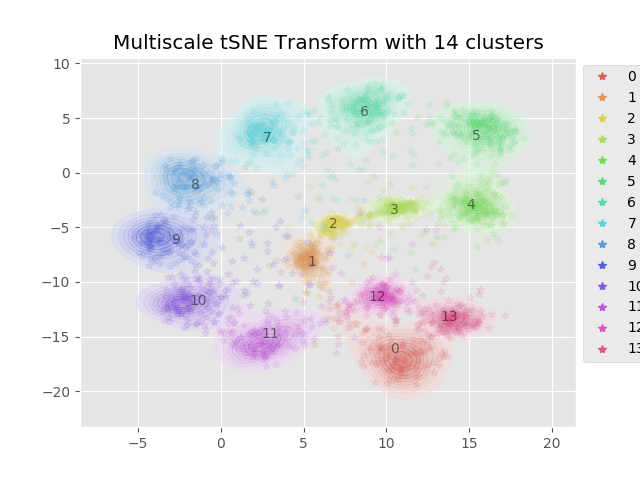
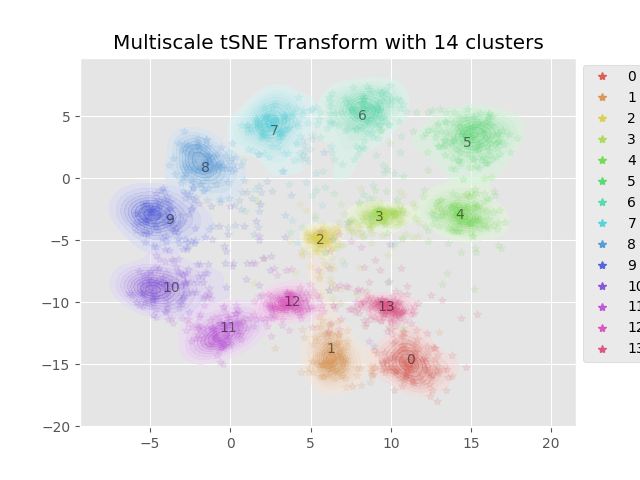
Think we have multiscale implementation working, although not clear its more multiscale than just averaging the P-matrices on input

diff --git a/parametric_tSNE/core.py b/parametric_tSNE/core.py
@@ -66,8 +66,8 @@ def _make_P_np(input, betas):
     P_3 = np.zeros_like(P_ji)
     for zz in range(P_3.shape[2]):
         P_3[:, :, zz] = _get_normed_sym_np(P_ji[:, :, zz])
-    P_ = P_3.mean(axis=2, keepdims=False)
-    #P_ = P_3
+    #   P_ = P_3.mean(axis=2, keepdims=False)
+    P_ = P_3
     return P_
     
     
@@ -181,15 +181,15 @@ def _make_Q(output, alpha, batch_size):
     return Q_
  
     
-def kl_loss(y_true, y_pred, alpha=1.0, batch_size=None, _eps=DEFAULT_EPS):
+def kl_loss(y_true, y_pred, alpha=1.0, batch_size=None, num_perplexities=None, _eps=DEFAULT_EPS):
     """ Kullback-Leibler Loss function (Tensorflow)
     between the "true" output and the "predicted" output
     Parameters
     ----------
-    y_true : 2d or 3d array_like (N, N, P)
+    y_true : 2d array_like (N, N*P)
         Should be the P matrix calculated from input data.
         Differences in input points using a Gaussian probability distribution
-        2d arrays imply P = 1
+        Different P (perplexity) values stacked along dimension 1
     y_pred : 2d array_like (N, output_dims)
         Output of the neural network. We will calculate
         the Q matrix based on this output
@@ -197,6 +197,8 @@ def kl_loss(y_true, y_pred, alpha=1.0, batch_size=None, _eps=DEFAULT_EPS):
         Parameter used to calculate Q. Default 1.0
     batch_size : int, required
         Number of samples per batch. y_true.shape[0]
+    num_perplexities : int, required
+        Number of perplexities stacked along axis 1
     Returns
     -------
     kl_loss : tf.Tensor, scalar value
@@ -208,24 +210,26 @@ def kl_loss(y_true, y_pred, alpha=1.0, batch_size=None, _eps=DEFAULT_EPS):
     
     _tf_eps = tf.constant(_eps, dtype=P_.dtype)
     
-    #kls_per_beta = []
-    #for zz in range(P_.shape[2]):
-        #cur_beta_P = P_[:,:, zz]
-    cur_beta_P = P_
-    kl_matr = tf.multiply(cur_beta_P, tf.log(cur_beta_P + _tf_eps) - tf.log(Q_ + _tf_eps), name='kl_matr')
-    toset = tf.constant(0, shape=[batch_size], dtype=kl_matr.dtype)
-    kl_matr_keep = tf.matrix_set_diag(kl_matr, toset)
-    kl_total_cost_cur_beta = tf.reduce_sum(kl_matr_keep)
-    #kls_per_beta.append(kl_total_cost_cur_beta)
-    #kl_total_cost = tf.add_n(kls_per_beta)
-    kl_total_cost = kl_total_cost_cur_beta
+    kls_per_beta = []
+    components = tf.split(P_, num_perplexities, axis=1, name='split_perp')
+    for cur_beta_P in components:
+        #yrange = tf.range(zz*batch_size, (zz+1)*batch_size)
+        #cur_beta_P = tf.slice(P_, [zz*batch_size, [-1, batch_size])
+        #cur_beta_P = P_
+        kl_matr = tf.multiply(cur_beta_P, tf.log(cur_beta_P + _tf_eps) - tf.log(Q_ + _tf_eps), name='kl_matr')
+        toset = tf.constant(0, shape=[batch_size], dtype=kl_matr.dtype)
+        kl_matr_keep = tf.matrix_set_diag(kl_matr, toset)
+        kl_total_cost_cur_beta = tf.reduce_sum(kl_matr_keep)
+        kls_per_beta.append(kl_total_cost_cur_beta)
+    kl_total_cost = tf.add_n(kls_per_beta)
+    #kl_total_cost = kl_total_cost_cur_beta
     
     return kl_total_cost
     
     
 class Parametric_tSNE(object):
     
-    def __init__(self, num_inputs, num_outputs, perplexity,
+    def __init__(self, num_inputs, num_outputs, perplexities,
                  alpha=1.0, optimizer='adam', batch_size=64, all_layers=None,
                  do_pretrain=True, seed=0):
         """
@@ -234,7 +238,7 @@ class Parametric_tSNE(object):
             Dimension of the (high-dimensional) input
         num_outputs : int
             Dimension of the (low-dimensional) output
-        perplexity:
+        perplexities:
             Desired perplexit(y/ies). Generally interpreted as the number of neighbors to use
             for distance comparisons but actually doesn't need to be an integer.
             Can be an array for multi-scale.
@@ -256,7 +260,10 @@ class Parametric_tSNE(object):
         """
         self.num_inputs = num_inputs
         self.num_outputs = num_outputs
-        self.perplexity = perplexity
+        if not isinstance(perplexities, (list, tuple, np.ndarray)):
+            perplexities = np.array([perplexities])
+        self.perplexities = perplexities
+        self.num_perplexities = len(np.array(perplexities))
         self.alpha = alpha
         self._optimizer = optimizer
         self._batch_size = batch_size
@@ -367,7 +374,7 @@ class Parametric_tSNE(object):
         Necessary to do this so we can save/load the model using Keras, since
         the loss function is a custom object"""
         kl_loss_func = functools.partial(kl_loss, alpha=self.alpha, 
-            batch_size=self._batch_size)
+            batch_size=self._batch_size, num_perplexities=self.num_perplexities)
         kl_loss_func.__name__ = 'KL-Divergence'
         self._loss_func = kl_loss_func
             
@@ -380,7 +387,7 @@ class Parametric_tSNE(object):
             Data on which to train the tSNE model
         training_betas : 2d array_like (N,P), optional
             Widths for gaussian kernels. If `None` (the usual case), they will be calculated based on
-            `training_data` and self.perplexity. One can also provide them here explicitly.
+            `training_data` and self.perplexities. One can also provide them here explicitly.
         epochs: int, optional
         verbose: int, optional
             Default 0. Verbosity level. Passed to Keras fit method
@@ -396,8 +403,13 @@ class Parametric_tSNE(object):
         self._epochs = epochs
         
         if self._training_betas is None:
-            training_betas = self._calc_training_betas(training_data, self.perplexity)
+            training_betas = self._calc_training_betas(training_data, self.perplexities)
             self._training_betas = training_betas
+        else:
+            if len(self._training_betas.shape) == 1:
+                assert self.num_perplexities == 1, "Mismatch between input training betas and num_perplexities"
+            else:
+                assert self._training_betas.shape[1] == self.num_perplexities
         
         if self.do_pretrain:
             self._pretrain_layers(training_data, batch_size=self._batch_size, epochs=epochs, verbose=verbose)
@@ -438,14 +450,14 @@ class Parametric_tSNE(object):
         Parameters
         ----------
         training_data : 2d array_like (N, D)
-        betas : 2d array_like (N,P)
+        betas : 2d array_like (N, P)
         batch_size: int
 
         Returns
         -------
         cur_dat : 2d array_like (batch_size, D)
             Slice of `training_data`
-        P_array : 3d array_like (batch_size, batch_size, P)
+        P_array : 2d array_like (batch_size, batch_size)
             Probability matrix between points
             This is what we use as our "true" value in the KL loss function
         """
@@ -454,12 +466,18 @@ class Parametric_tSNE(object):
         while True:
             cur_step = (cur_step + 1) % num_steps
             cur_bounds = batch_size*cur_step, batch_size*(cur_step+1)
-            cur_dat = training_data[cur_bounds[0]:cur_bounds[1], :]
-            cur_betas = betas[cur_bounds[0]:cur_bounds[1], :]
+            cur_range = np.arange(cur_bounds[0], cur_bounds[1])
+            cur_dat = training_data[cur_range, :]
+            cur_betas = betas[cur_range, :]
             
-            P_array = _make_P_np(cur_dat, cur_betas)
+            P_arrays_3d = _make_P_np(cur_dat, cur_betas)
             
-            yield cur_dat, P_array
+            P_arrays = [P_arrays_3d[:,:,pp] for pp in range(P_arrays_3d.shape[2])]
+            
+            # Stack them along dimension 1. This is a hack
+            P_arrays = np.concatenate(P_arrays, axis=1)
+            
+            yield cur_dat, P_arrays
             
     def save_model(self, model_path):
         """Save the underlying model to `model_path` using Keras"""
